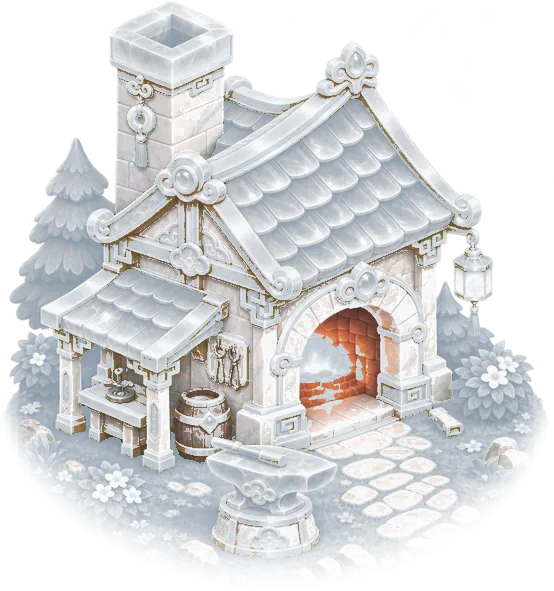
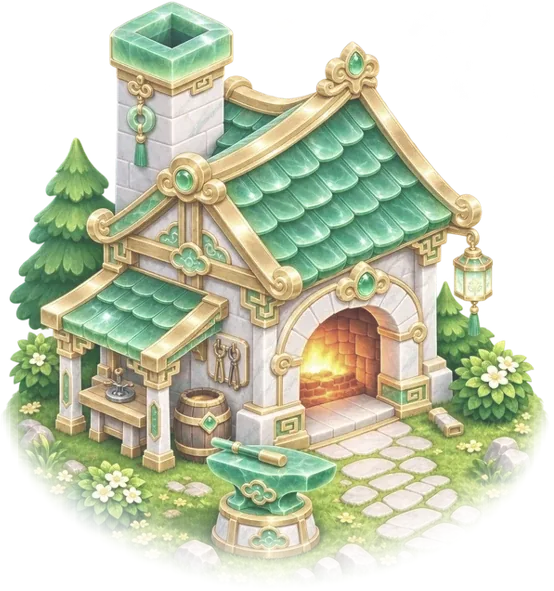
翡翠建築外觀在各色調下保留綠色（不再被當成植物換色，雪國不會全白）
Claude-Session: https://claude.ai/code/session_011E9LWKbRev5CpXJ2t3WaU7

diff --git a/index.html b/index.html
@@ -474,18 +474,18 @@ body.editing .dec image{filter:drop-shadow(0 0 2px rgba(255,255,255,.9))}
 
 <div class="hud" id="hud" style="display:none">
   <div class="top">
-    <div class="avw" id="avWrap"><img class="avatar avimg" id="avatar" src="assets/av11.webp?v=1794254492" alt="" style="cursor:pointer"><i class="aved">✎</i></div>
+    <div class="avw" id="avWrap"><img class="avatar avimg" id="avatar" src="assets/av11.webp?v=1794254921" alt="" style="cursor:pointer"><i class="aved">✎</i></div>
     <div class="who">
       <div class="nm" id="pname"></div>
       <div class="lvrow"><span class="lvtag" id="plv">Lv1</span><div class="bar"><i id="pexp"></i></div><span id="pexpt"></span></div>
     </div>
-    <div class="cur"><div class="gold"><img class="icn" src="assets/i_coin.webp?v=1794254492" alt=""><span id="pgold">0</span></div><div class="gold gem" id="gemBox"><img class="icn" src="assets/i_gem.webp?v=1794254492" alt=""><span id="pgems">0</span><i class="gplus">+</i></div></div>
+    <div class="cur"><div class="gold"><img class="icn" src="assets/i_coin.webp?v=1794254921" alt=""><span id="pgold">0</span></div><div class="gold gem" id="gemBox"><img class="icn" src="assets/i_gem.webp?v=1794254921" alt=""><span id="pgems">0</span><i class="gplus">+</i></div></div>
     <button class="setbtn eb" id="bGift" aria-label="禮物信箱">📬</button><button class="setbtn eb" id="bHelp" aria-label="遊戲說明">📖</button>
-    <button class="setbtn" id="bSet" aria-label="設定"><img src="assets/n_set.webp?v=1794254492" alt=""></button>
+    <button class="setbtn" id="bSet" aria-label="設定"><img src="assets/n_set.webp?v=1794254921" alt=""></button>
   </div>
   <div class="hint" id="hint"></div>
   <div class="ticker" id="ticker"><div class="tk" id="tk"></div></div>
-  <button class="sidebtn" id="bSign"><img src="assets/n_sign.webp?v=1794254492" alt="" style="width:30px;height:30px;object-fit:contain"><small>簽到</small></button>
+  <button class="sidebtn" id="bSign"><img src="assets/n_sign.webp?v=1794254921" alt="" style="width:30px;height:30px;object-fit:contain"><small>簽到</small></button>
 </div>
 
 <div class="dock" id="dock" style="display:none">
@@ -501,11 +501,11 @@ body.editing .dec image{filter:drop-shadow(0 0 2px rgba(255,255,255,.9))}
 <div class="toast" id="toast"></div>
 <div id="tint"></div>
 <div id="fx"></div>
-<div id="loader"><img class="sp" src="assets/c_bunny1.webp?v=1794254492" alt=""><div class="lg">一起種田吧</div><div class="lb"><i id="ldbar"></i></div><div style="font-weight:700;color:#5E7A4A;font-size:13px">小鎮準備中…</div></div>
+<div id="loader"><img class="sp" src="assets/c_bunny1.webp?v=1794254921" alt=""><div class="lg">一起種田吧</div><div class="lb"><i id="ldbar"></i></div><div style="font-weight:700;color:#5E7A4A;font-size:13px">小鎮準備中…</div></div>
 
 <script src="supabase.js"></script>
 <script>
-const BUILD="1794254492";
+const BUILD="1794254921";
 /* ================= 遊戲資料 ================= */
 const CROPS = [
   {id:'radish',    name:'白蘿蔔', lv:1, seed:10,  time:120,   yield:8,  price:3,  exp:4,   type:'root',  color:'#F7F4EA', edge:'#D9D2C0'},
